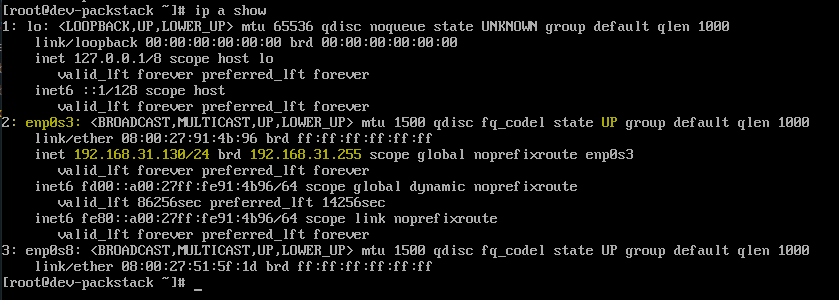
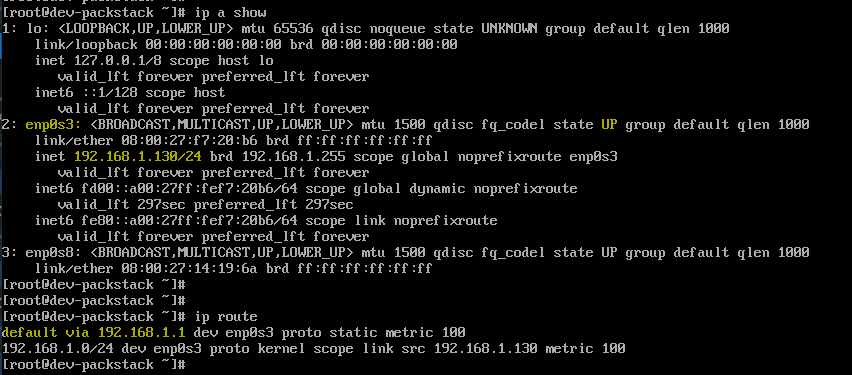
Migrate notes

Changed region(s): [[0.0, 0.0, 0.9607, 0.99]]

diff --git a/docs/038-OpenStack/005-Installation/005-Setting-up-VirtualBox.md b/docs/038-OpenStack/005-Installation/005-Setting-up-VirtualBox.md
@@ -370,70 +370,62 @@ Start the machine and complete the installation using the GUI installer.
     For a simple lab setup, you only need one active interface to connect the VM to your network. Typically, you use `enp0s3`.
 
     - Set the host name > **Apply**
-    - Enable the Ethernet interface (enp0s3)
+    - Enable the Ethernet interface (enp0s3) and click **Configure**
 
         <div class='img-center'>
         
         ![](/img/docs/Screenshot2026-02-08194748.png)
         
         </div>
-        
-    - Click **Configure**
-
-      <div class='img-center'>
-      
-      ![](/img/docs/Screenshot2026-02-08054752.png)
-      
-      </div>
     
 9. For the configuration, we'll use this:
 
-    ```bash
-    IP Address: 192.168.1.130   (must be unused)
-    Subnet:     255.255.255.0
-    Gateway:    192.168.1.1
-    DNS:         8.8.8.8
-    ```
+      ```bash
+      IP Address: 192.168.1.130   (must be unused)
+      Subnet:     255.255.255.0
+      Gateway:    192.168.1.1
+      DNS:         8.8.8.8
+      ```
 
-    <div class='img-center'>
-    
-    ![](/img/docs/Screenshot-2026-02-08-225018.png)
-    
-    </div>
+      <div class='img-center'>
+      
+      ![](/img/docs/Screenshot-2026-02-08-225018.png)
+      
+      </div>
 
-    Click **Save**. The interface should show as **Connected** with its details displayed.
+      Click **Save**. The interface should show as **Connected** with its details displayed.
 
-    <div class='img-center'>
-    
-    ![](/img/docs/Screenshot-2026-02-08-195936.png)
-    
-    </div>
-    
+      <div class='img-center'>
+      
+      ![](/img/docs/Screenshot-2026-02-08-195936.png)
+      
+      </div>
+      
 
 
 10. Finally, set the root password and create another user.
 
-    <div class='img-center'>
+      <div class='img-center'>
 
-    ![](/img/docs/Screenshot2026-02-08054025.png)
+      ![](/img/docs/Screenshot2026-02-08054025.png)
 
-    </div>
-    
-    Provide a root password and click **Done.**
+      </div>
+      
+      Provide a root password and click **Done.**
 
-    <div class='img-center'>
-    
-    ![](/img/docs/Screenshot2026-02-08054125.png)
-    
-    </div>
+      <div class='img-center'>
+      
+      ![](/img/docs/Screenshot2026-02-08054125.png)
+      
+      </div>
 
-    As best practice, create another admin user:
+      As best practice, create another admin user:
 
-    <div class='img-center'>
-    
-    ![](/img/docs/Screenshot2026-02-08054329.png)
-    
-    </div>
+      <div class='img-center'>
+      
+      ![](/img/docs/Screenshot2026-02-08054329.png)
+      
+      </div>
     
 11. Back in the main menu, click **Begin Installation**
 
@@ -456,17 +448,18 @@ Start the machine and complete the installation using the GUI installer.
 
 Log in to the VM as root using the password you set during installation.
 
-<div class='img-center'>
+<div>
 
 ![](/img/docs/Screenshot-2026-02-08-202302.png)
 
 </div>
 
 
-Check interface status using the interface name `enp0s3`.
+Check the status for the interface `enp0s3` and confirm there's a route to the gateway:
 
 ```bash
-ip a show enp0s3
+ip a show
+ip route
 ```
 
 <div class='img-center'>
@@ -476,13 +469,13 @@ ip a show enp0s3
 </div>
 
 
-Test connectivity to the configured gateway: 
+Test connectivity to the gateway: 
 
 ```bash
 ping -c 3 192.168.1.1
 ```
 
-<div class='img-center'>
+<div>
 
 ![](/img/docs/Screenshot-2026-02-09-002443.png)
 
@@ -496,7 +489,7 @@ ping -c 3 8.8.8.8
 ping -c 3 www.google.com
 ```
 
-<div class='img-center'>
+<div>
 
 ![](/img/docs/Screenshot-2026-02-09-002536.png)
 
